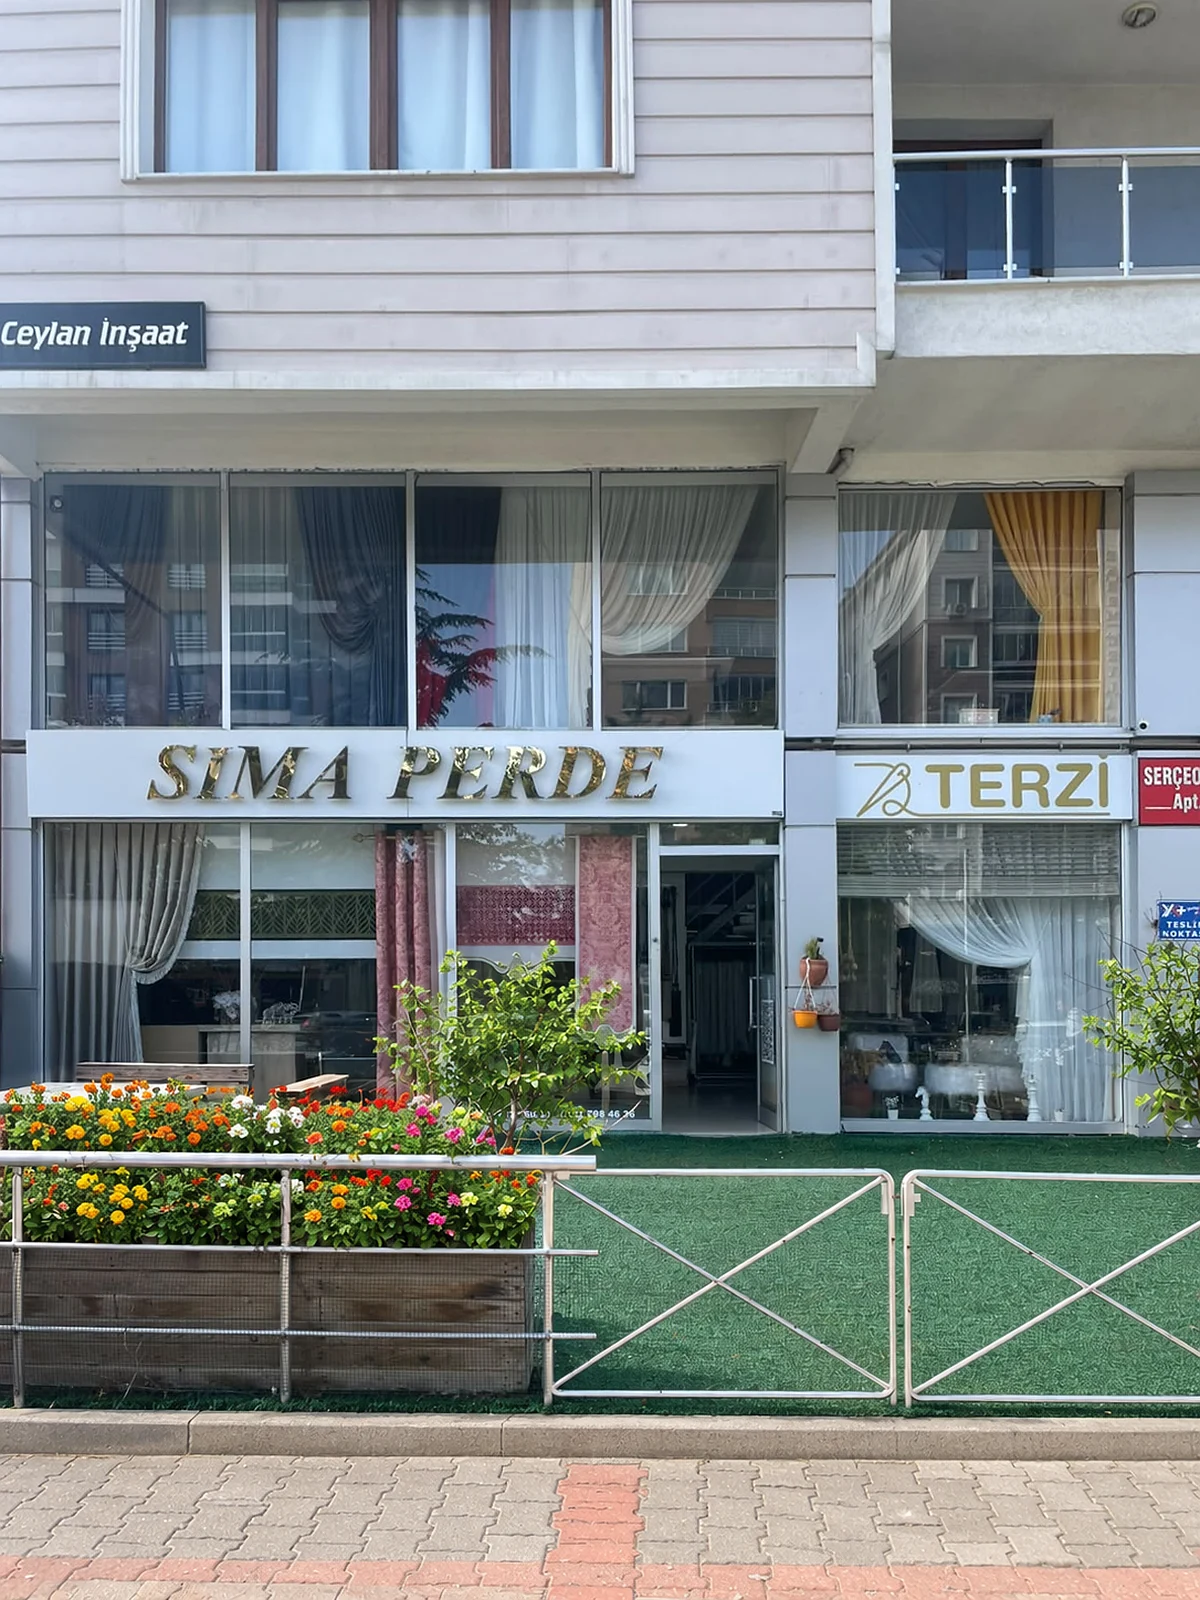
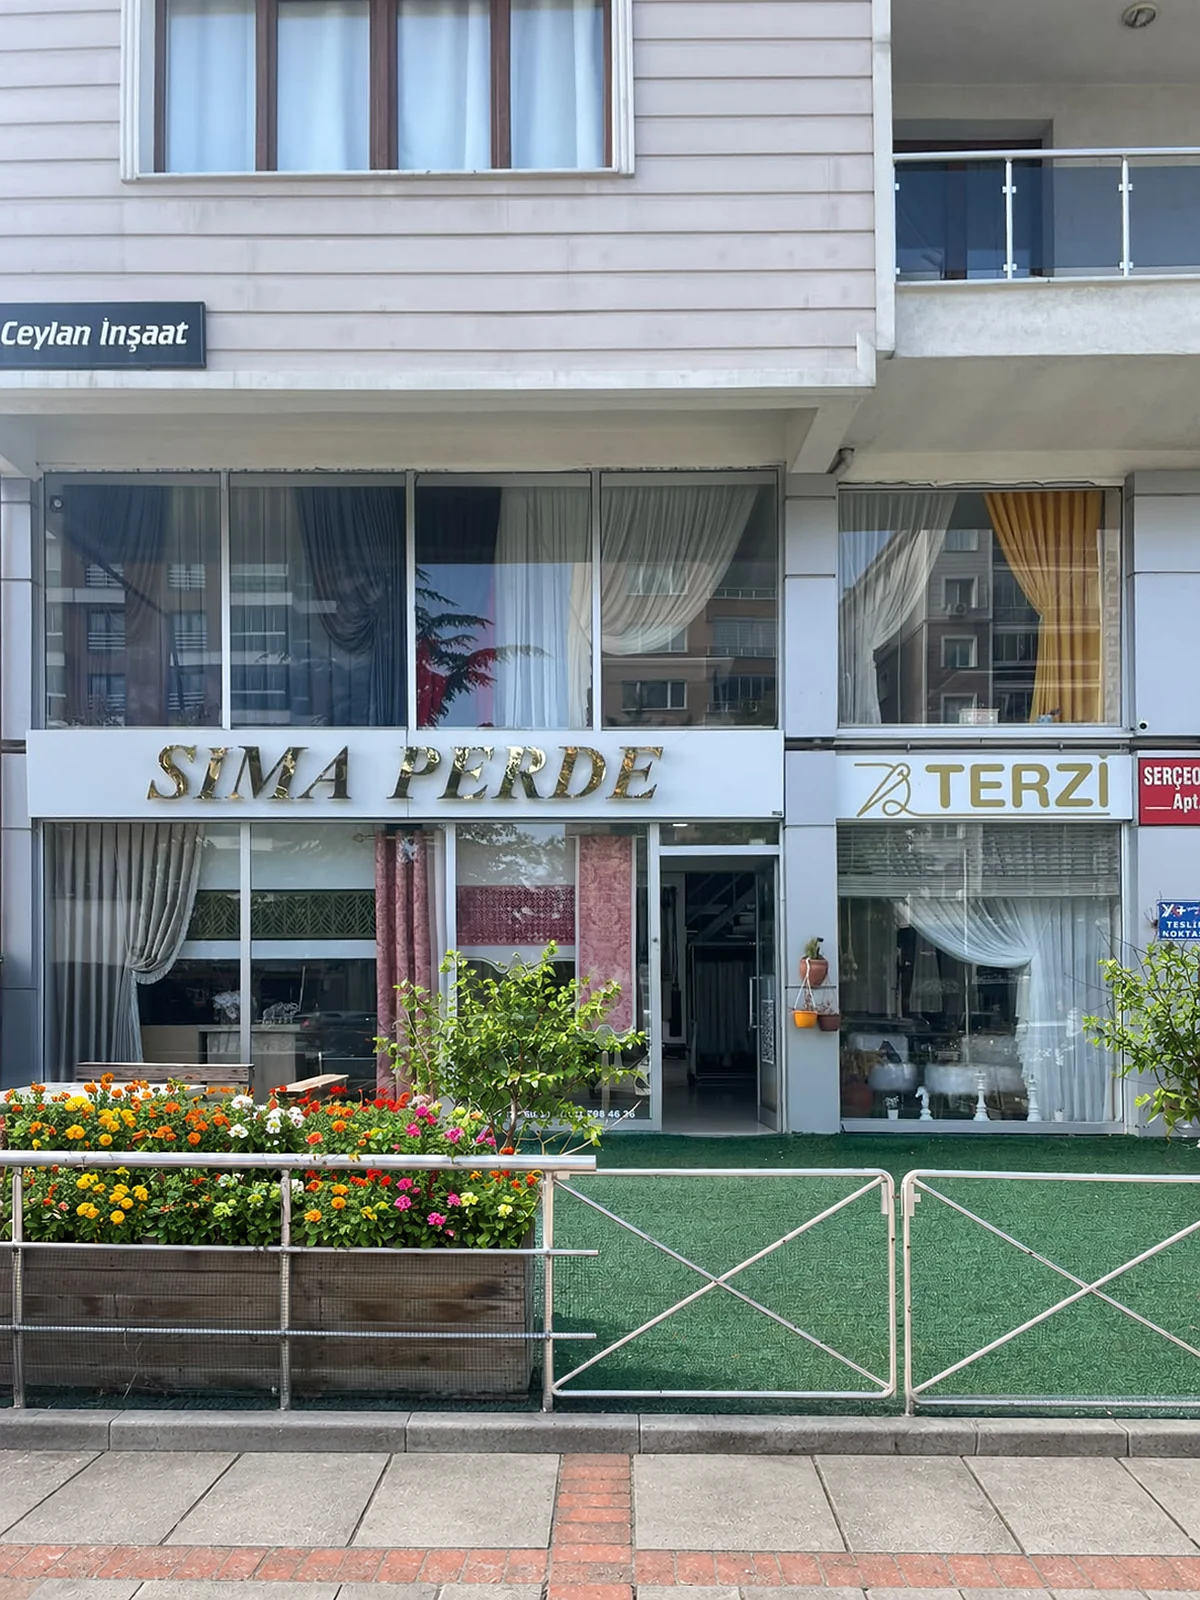
Yeni görünüm: mağaza önünde gerçek kaldırım deseni korunarak temizlendi

Changed region(s): [[0.0, 0.875, 1.0, 1.0]]

diff --git a/yeni/index.html b/yeni/index.html
@@ -139,7 +139,7 @@
 
     <!-- 7) MAĞAZA VE ADIMLAR -->
     <section class="magaza" id="magaza">
-      <div class="magaza-gorsel"><img src="../img/yeni/magaza.webp?v=4" alt="Mehmet Topaç Bulvarı'ndaki mağazamız" loading="lazy"></div>
+      <div class="magaza-gorsel"><img src="../img/yeni/magaza.webp?v=5" alt="Mehmet Topaç Bulvarı'ndaki mağazamız" loading="lazy"></div>
       <div class="magaza-metin">
         <p class="etiket">Mağazamız</p>
         <h2><span>Uşak'ın içinden,</span> <em>evinize.</em></h2>
